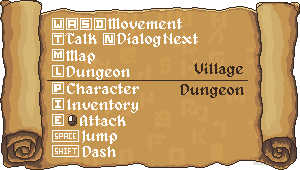
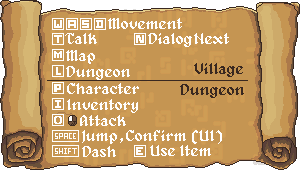
Tiny fixxes

Changed region(s): [[0.39, 0.7647, 0.75, 0.9412], [0.33, 0.1765, 0.78, 0.2941], [0.18, 0.6765, 0.21, 0.7353]]

diff --git a/Villeon/Villeon/GUI/Font.cs b/Villeon/Villeon/GUI/Font.cs
@@ -9,7 +9,6 @@ using OpenTK.Mathematics;
 using Villeon.Assets;
 using Villeon.Components;
 using Villeon.Helper;
-using Villeon.Utils;
 using Zenseless.OpenTK;
 
 namespace Villeon.GUI
@@ -23,7 +22,7 @@ namespace Villeon.GUI
         public Font(Color4 color, Texture2D fontTexture, string fontJsonPath)
         {
             // Font JSON load
-            dynamic fontJson = JsonConvert.DeserializeObject(ResourceLoader.LoadContentAsText(fontJsonPath)) !;
+            dynamic fontJson = JsonConvert.DeserializeObject(ResourceLoader.LoadContentAsText(fontJsonPath))!;
             int cellWidth = fontJson.gridCellWidth;
             int cellHeight = fontJson.gridCellHeight;
             int rows = fontJson.rows;
@@ -44,10 +43,10 @@ namespace Villeon.GUI
                 int charWidth = fontJson.characters[i].width + fontJson.borderLeft + fontJson.borderRight;
                 Vector2[] texCoords = new Vector2[4]
                 {
-                    new Vector2(x * cellWidth, (y * cellHeight) - charHeight) / _sheetTexture.Height,                // bottomLeft
-                    new Vector2((x * cellWidth) + charWidth, (y * cellHeight) - charHeight) / _sheetTexture.Height,  // bottomRight
+                    new Vector2(x * cellWidth, y * cellHeight - charHeight) / _sheetTexture.Height,                // bottomLeft
+                    new Vector2(x * cellWidth + charWidth, y * cellHeight - charHeight) / _sheetTexture.Height,  // bottomRight
                     new Vector2(x * cellWidth, y * cellHeight) / _sheetTexture.Height,                               // topLeft
-                    new Vector2((x * cellWidth) + charWidth, y * cellHeight) / _sheetTexture.Height,                 // topRight
+                    new Vector2(x * cellWidth + charWidth, y * cellHeight) / _sheetTexture.Height,                 // topRight
                 };
 
                 Sprite sprite = new Sprite(_sheetTexture, SpriteLayer.ScreenGuiForeground, texCoords, charWidth, charHeight);

diff --git a/Villeon/Villeon/Systems/Update/MouseClickSystem.cs b/Villeon/Villeon/Systems/Update/MouseClickSystem.cs
@@ -24,18 +24,7 @@ namespace Villeon.Systems.Update
 
         public void Update(float time)
         {
-            foreach (MouseHandler.ClickedMouseButton button in MouseHandler.ClickedMouseButtons)
-            {
-                if (button.Button == MouseButton.Right)
-                {
-                    EnemySpawner.SpawnEnemy("DungeonScene", "slime_blue", button.MousePosition);
-                }
-
-                if (button.Button == MouseButton.Middle)
-                {
-                    EnemySpawner.SpawnEnemy("DungeonScene", "bat", button.MousePosition);
-                }
-            }
+ 
         }
     }
 }

diff --git a/Villeon/Villeon/GUI/DungeonMenu.cs b/Villeon/Villeon/GUI/DungeonMenu.cs
@@ -11,7 +11,6 @@ using Villeon.Assets;
 using Villeon.Components;
 using Villeon.EntityManagement;
 using Villeon.Helper;
-using Villeon.Utils;
 
 namespace Villeon.GUI
 {
@@ -155,7 +154,7 @@ namespace Villeon.GUI
                 UpdateSelectionPosition();
             }
 
-            if (key == Keys.Space && _onExplore)
+            if ((key == Keys.Space || key == Keys.Enter) && _onExplore)
             {
                 Manager.GetInstance().RemoveEntities(GetEntities());
                 SceneLoader.SetActiveScene("DungeonScene");

diff --git a/Villeon/Villeon/Systems/Update/MainMenuInputSystem.cs b/Villeon/Villeon/Systems/Update/MainMenuInputSystem.cs
@@ -9,6 +9,7 @@ using Villeon.Components;
 using Villeon.EntityManagement;
 using Villeon.GUI;
 using Villeon.Helper;
+using Villeon.Utils;
 
 namespace Villeon.Systems.Update
 {
@@ -53,7 +54,7 @@ namespace Villeon.Systems.Update
                         UpdateText(mainMenu);
                     }
 
-                    if (currentKey == Keys.Space)
+                    if (currentKey == Keys.Space || currentKey == Keys.Enter)
                     {
                         HandleSelectedAction(mainMenu);
                     }

diff --git a/Villeon/Villeon/GUI/PauseMenu.cs b/Villeon/Villeon/GUI/PauseMenu.cs
@@ -8,9 +8,7 @@ using OpenTK.Windowing.GraphicsLibraryFramework;
 using Villeon.Assets;
 using Villeon.Components;
 using Villeon.EntityManagement;
-using Villeon.Generation;
 using Villeon.Helper;
-using Villeon.Utils;
 
 namespace Villeon.GUI
 {
@@ -84,7 +82,7 @@ namespace Villeon.GUI
                 UpdateText();
             }
 
-            if (key == Keys.Space)
+            if (key == Keys.Space || key == Keys.Enter)
             {
                 HandleSelectedAction();
                 return false;

diff --git a/Villeon/Villeon/GUI/DeathMenu.cs b/Villeon/Villeon/GUI/DeathMenu.cs
@@ -9,7 +9,6 @@ using Villeon.Assets;
 using Villeon.Components;
 using Villeon.EntityManagement;
 using Villeon.Helper;
-using Villeon.Utils;
 
 namespace Villeon.GUI
 {
@@ -84,7 +83,7 @@ namespace Villeon.GUI
                 UpdateText();
             }
 
-            if (key == Keys.Space)
+            if (key == Keys.Space || key == Keys.Enter)
             {
                 HandleSelectedAction();
                 return false;

diff --git a/Villeon/Villeon/Systems/Update/PlayerDeathSystem.cs b/Villeon/Villeon/Systems/Update/PlayerDeathSystem.cs
@@ -30,7 +30,7 @@ namespace Villeon.Systems.Update
                 {
                     StateManager.InMenu = true;
                     StateManager.IsPlayerDead = true;
-                    health.Heal(200);
+                    health.Heal(0);
                     health.IsInvincible = true;
                 }
             }

diff --git a/Villeon/Villeon/Helper/Camera.cs b/Villeon/Villeon/Helper/Camera.cs
@@ -100,8 +100,8 @@ namespace Villeon.Helper
             if (_cameraScale < 1f)
                 _cameraScale = 1f;
 
-            //if (_cameraScale > 20f)
-              // _cameraScale = 20f;
+            if (_cameraScale > 20f)
+               _cameraScale = 20f;
         }
 
         public static Matrix4 GetScreenMatrix()

diff --git a/Villeon/Villeon/EntityManagement/ParticleBuilder.cs b/Villeon/Villeon/EntityManagement/ParticleBuilder.cs
@@ -3,11 +3,10 @@ using System.Collections.Generic;
 using OpenTK.Mathematics;
 using Villeon.Assets;
 using Villeon.Components;
-using Villeon.EntityManagement;
 using Villeon.GUI;
 using Villeon.Utils;
 
-namespace Villeon.Generation
+namespace Villeon.EntityManagement
 {
     public class ParticleBuilder
     {

diff --git a/Villeon/Villeon/Systems/Update/VillagePlayerParticleSystem.cs b/Villeon/Villeon/Systems/Update/VillagePlayerParticleSystem.cs
@@ -8,7 +8,6 @@ using OpenTK.Windowing.GraphicsLibraryFramework;
 using Villeon.Assets;
 using Villeon.Components;
 using Villeon.EntityManagement;
-using Villeon.Generation;
 using Villeon.Helper;
 
 namespace Villeon.Systems.Update

diff --git a/Villeon/Villeon/Systems/TriggerSystems/DamageSystem.cs b/Villeon/Villeon/Systems/TriggerSystems/DamageSystem.cs
@@ -6,7 +6,6 @@ using System.Threading.Tasks;
 using OpenTK.Mathematics;
 using Villeon.Components;
 using Villeon.EntityManagement;
-using Villeon.Generation;
 using Villeon.GUI;
 
 namespace Villeon.Systems.TriggerSystems

diff --git a/Villeon/Villeon/Systems/Update/ItemUseSystem.cs b/Villeon/Villeon/Systems/Update/ItemUseSystem.cs
@@ -10,7 +10,6 @@ using OpenTK.Windowing.GraphicsLibraryFramework;
 using Villeon.Assets;
 using Villeon.Components;
 using Villeon.EntityManagement;
-using Villeon.Generation;
 using Villeon.GUI;
 using Villeon.Helper;
 
